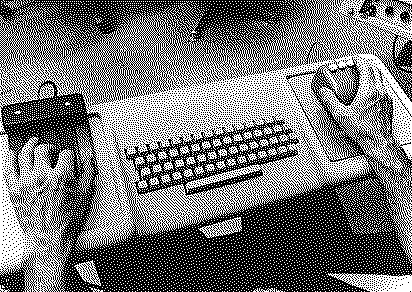
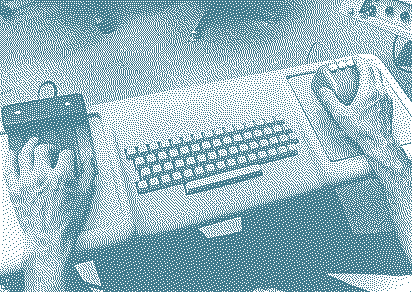
Tint dither blacks to match original teal bg (#3f7a8c)

diff --git a/app/page.tsx b/app/page.tsx
@@ -239,11 +239,11 @@ export default function Home() {
           margin: 0; padding: 0; overflow: hidden;
           height: 100%; width: 100%;
           font-family: -apple-system, 'Helvetica Neue', Helvetica, Arial, sans-serif;
-          background: #111;
+          background: #3f7a8c;
         }
         .desktop {
           position: fixed; inset: 0;
-          background-color: #111;
+          background-color: #3f7a8c;
           background-image: url('/desktop-bg.png');
           background-size: cover;
           background-position: center;
